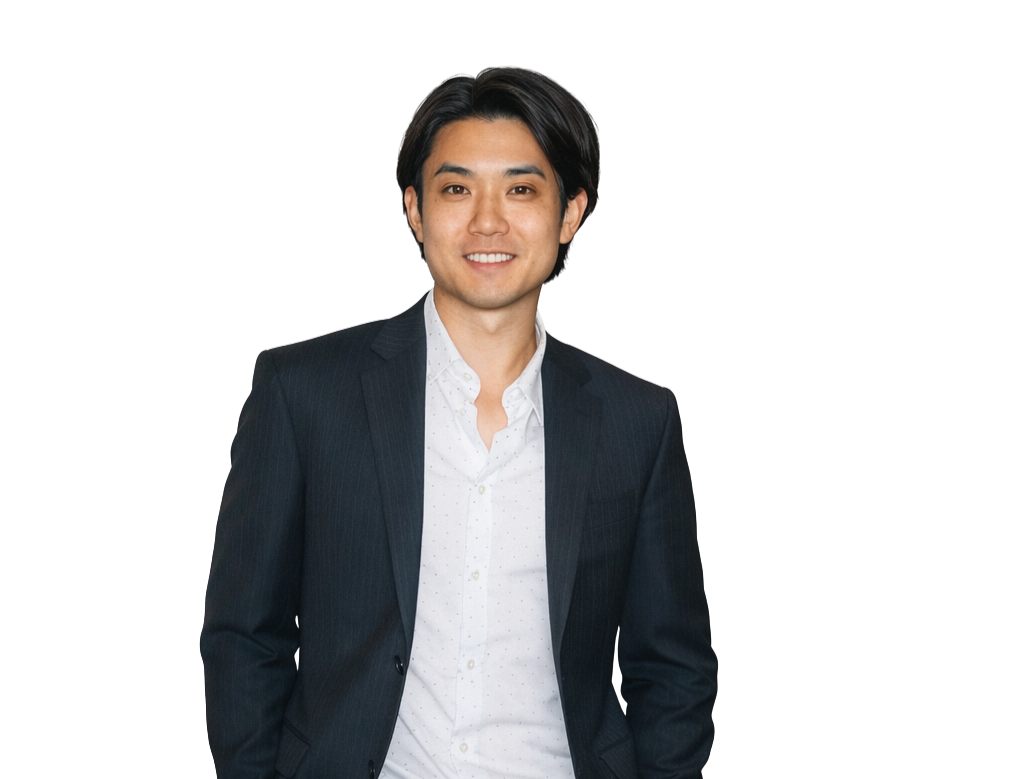
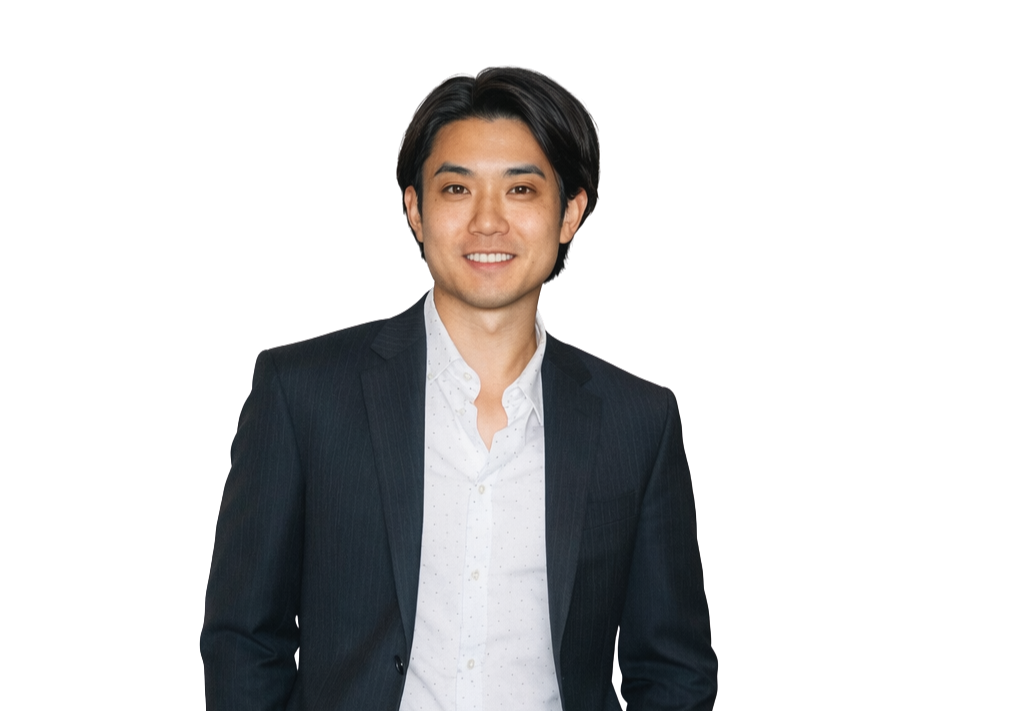
feat(lp/switch/founder): キャプション更新 + 左右入替再適用
- 明神 洸次郎 bio: 「人の感情を10年以上動かしてきた」「その感性をそのままプロダクトに注ぎ、オーナーポータルと運用フローを一から設計」
- 劉 添毅 bio: 「日米で民泊物件をオーナーとして運営」「Amazon 米国本社で培ったオペレーション設計の経験」「自分が任せたかった代行を、自分でつくる」
- 写真位置: 左 = 明神 / 右 = 劉（再入替）
- 劉 添毅の写真をユーザー指定版（489024 bytes）に再差し替え

diff --git a/components/switch/SwitchHeroFounder.tsx b/components/switch/SwitchHeroFounder.tsx
@@ -4,7 +4,7 @@
  * 仮説: スイッチング先の選定では「会社」より「人」を見る層がいる。
  * オーナー専用ダッシュボード（switch/portal）と統一の dark teal 背景に、
  * 創業者ポートレートを左右に大きく配置し、タイトル端と重ねる構成。
- * 左: 劉 添毅 / 右: 明神 洸次郎
+ * 左: 明神 洸次郎 / 右: 劉 添毅
  */
 
 import { useEffect, useState } from "react";
@@ -39,21 +39,21 @@ export default function SwitchHeroFounder() {
 
           {/* 写真 + 大見出しのレイヤード構成 */}
           <div className="relative">
-            {/* 左: 劉 添毅（photo as background, bottom-aligned） */}
+            {/* 左: 明神 洸次郎（photo as background, bottom-aligned） */}
             <div className="absolute left-0 sm:left-[-4%] lg:left-[-6%] bottom-[-12%] sm:bottom-[-10%] lg:bottom-[-8%] w-[52%] sm:w-[46%] lg:w-[44%] z-10 pointer-events-none">
               <img
-                src="/images/switch/founder-tenichi.png"
-                alt="劉 添毅 代表取締役 CEO"
+                src="/images/switch/founder-koji.png"
+                alt="明神 洸次郎 共同代表 Co-CEO"
                 className="w-full h-auto select-none drop-shadow-[0_24px_48px_rgba(0,0,0,0.7)]"
                 loading="eager"
               />
             </div>
 
-            {/* 右: 明神 洸次郎（photo as background, bottom-aligned） */}
+            {/* 右: 劉 添毅（photo as background, bottom-aligned） */}
             <div className="absolute right-0 sm:right-[-4%] lg:right-[-6%] bottom-[-12%] sm:bottom-[-10%] lg:bottom-[-8%] w-[52%] sm:w-[46%] lg:w-[44%] z-10 pointer-events-none">
               <img
-                src="/images/switch/founder-koji.png"
-                alt="明神 洸次郎 共同代表 Co-CEO"
+                src="/images/switch/founder-tenichi.png"
+                alt="劉 添毅 代表取締役 CEO"
                 className="w-full h-auto select-none drop-shadow-[0_24px_48px_rgba(0,0,0,0.7)]"
                 loading="eager"
               />
@@ -80,25 +80,25 @@ export default function SwitchHeroFounder() {
             </div>
           </div>
 
-          {/* 浮遊カード（写真の上に被さる）— 左: 劉 / 右: 明神 */}
+          {/* 浮遊カード（写真の上に被さる）— 左: 明神 / 右: 劉 */}
           <div className="relative z-30 grid grid-cols-1 md:grid-cols-2 gap-4 sm:gap-6 max-w-5xl mx-auto mt-6 sm:mt-10">
-            <FloatingFounderCard
-              name="劉 添毅"
-              nameRomaji="Tenichi Liu"
-              role="代表取締役 CEO"
-              bio={
-                <>
-                  <strong className="text-white">SEKAI STAY創設者</strong>。<strong className="text-white">Amazon米国本社</strong>で培った経験をもとに、日本の代行業界に世界基準の運用体験を提供することを目的に創業。民泊投資家として国内外の物件を運営してきた当事者でもある。
-                </>
-              }
-            />
             <FloatingFounderCard
               name="明神 洸次郎"
               nameRomaji="Kojiro Myojin"
               role="共同代表 Co-CEO"
               bio={
                 <>
-                  登録者数125万人超を誇った人気YouTubeグループ「<strong className="text-white">カリスマブラザーズ</strong>」出身のクリエイター「<strong className="text-white">ジロー</strong>」としても活動。プロダクト・運用設計を統括し、SEKAI STAYの中身は彼がつくっている。
+                  登録者125万人超のYouTubeグループ「<strong className="text-white">カリスマブラザーズ</strong>」のクリエイター「<strong className="text-white">ジロー</strong>」として、人の感情を10年以上動かしてきた。その感性をそのままプロダクトに注ぎ、オーナーポータルと運用フローを一から設計。
+                </>
+              }
+            />
+            <FloatingFounderCard
+              name="劉 添毅"
+              nameRomaji="Tenichi Liu"
+              role="代表取締役 CEO"
+              bio={
+                <>
+                  日米で民泊物件をオーナーとして運営し、業界の不透明な手数料構造と「見えない運用」に当事者として直面。<strong className="text-white">Amazon 米国本社</strong>で培ったオペレーション設計の経験をもとに、「自分が任せたかった代行を、自分でつくる」と決意して創業。
                 </>
               }
             />